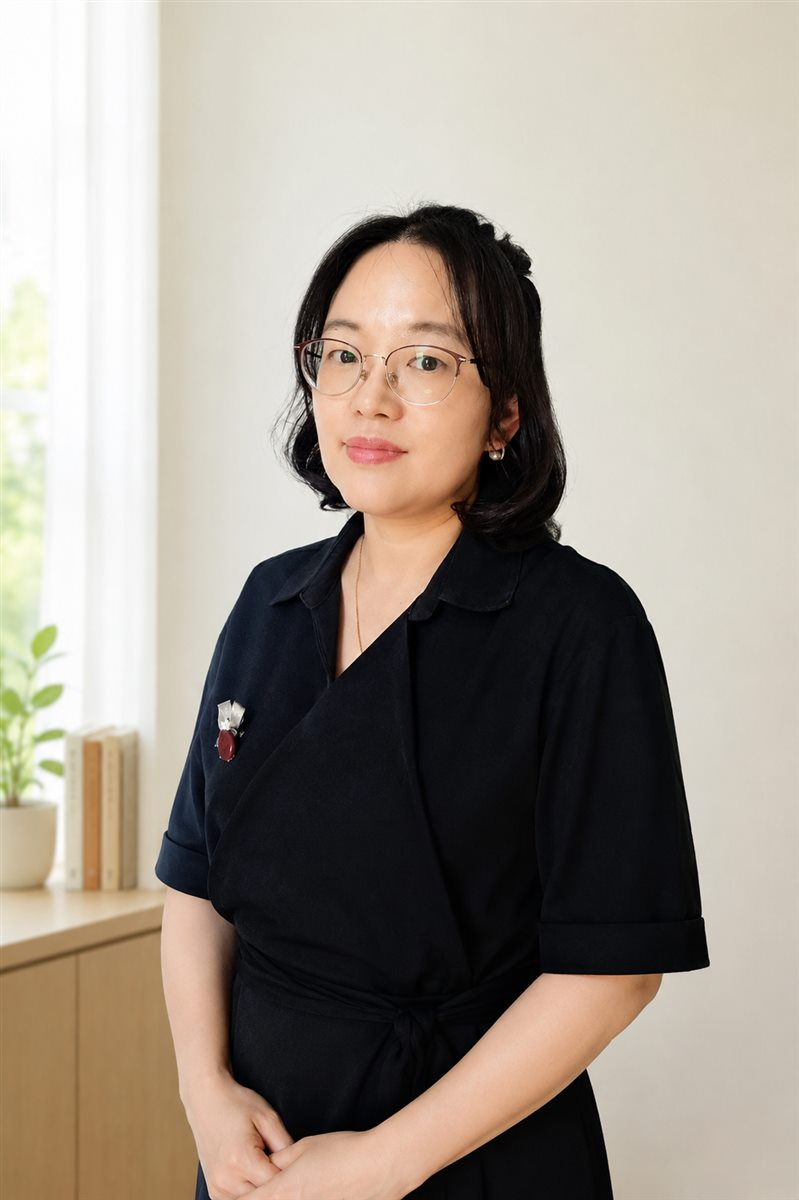
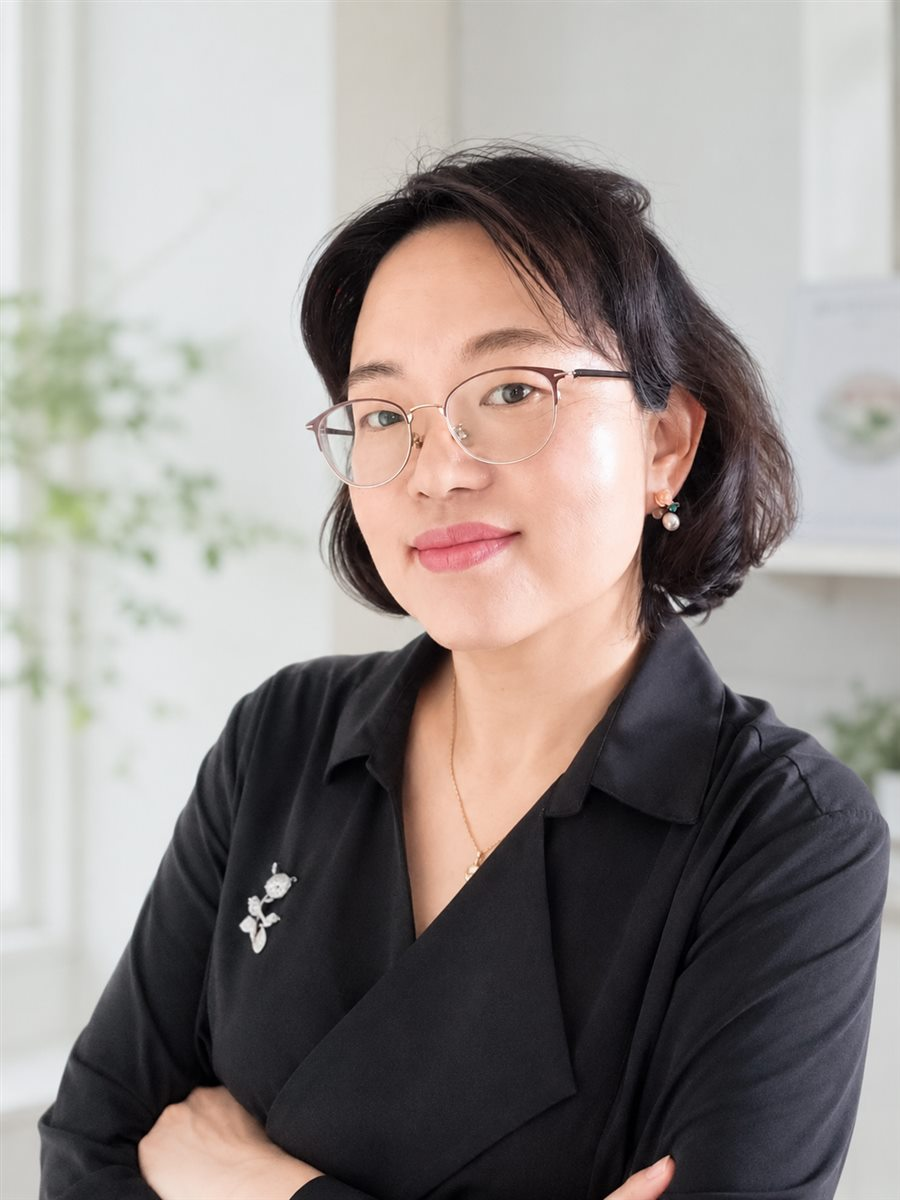
원장 인사말 섹션 사진을 새 프로필 사진으로 교체

diff --git a/index.html b/index.html
@@ -714,6 +714,64 @@
     .g6 { background: linear-gradient(135deg, var(--mint-light),    var(--lavender-light)); }
     .gallery-footer { text-align: center; }
 
+    /* ───── SAFETY ───── */
+    #safety { background: var(--bg-main); }
+    .safe-grid {
+      display: grid;
+      grid-template-columns: repeat(2, 1fr);
+      gap: 22px;
+    }
+    .safe-card {
+      background: var(--white);
+      border: var(--border);
+      border-radius: 22px;
+      padding: 28px 26px;
+      box-shadow: var(--shadow-sm);
+    }
+    .safe-head {
+      display: flex;
+      align-items: center;
+      gap: 14px;
+      margin-bottom: 18px;
+    }
+    .safe-ico {
+      width: 46px; height: 46px;
+      border-radius: 14px;
+      display: flex;
+      align-items: center;
+      justify-content: center;
+      font-size: 24px;
+      flex-shrink: 0;
+    }
+    .safe-card h3 {
+      font-size: 17px;
+      font-weight: 800;
+      color: var(--text-dark);
+      letter-spacing: -0.2px;
+    }
+    .s1 .safe-ico { background: var(--mint-light); }
+    .s2 .safe-ico { background: var(--sky-light); }
+    .s3 .safe-ico { background: var(--peach-light); }
+    .s4 .safe-ico { background: var(--lavender-light); }
+    .safe-list { list-style: none; }
+    .safe-list li {
+      font-size: 14px;
+      color: var(--text-mid);
+      line-height: 1.7;
+      padding-left: 22px;
+      position: relative;
+    }
+    .safe-list li + li { margin-top: 10px; }
+    .safe-list li::before {
+      content: "✓";
+      position: absolute;
+      left: 0; top: 0;
+      font-size: 13px;
+      font-weight: 800;
+      color: var(--mint-dark);
+    }
+    .safe-list li strong { color: var(--text-dark); font-weight: 700; }
+
     /* ───── ADMISSION ───── */
     #admission {
       background: linear-gradient(170deg, #F3FBF7 0%, var(--white) 58%, #F5FBF8 100%);
